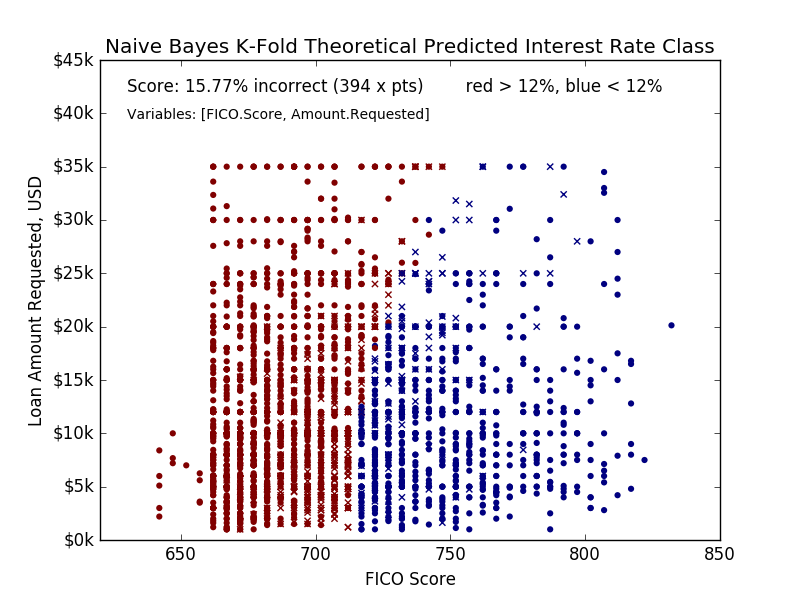
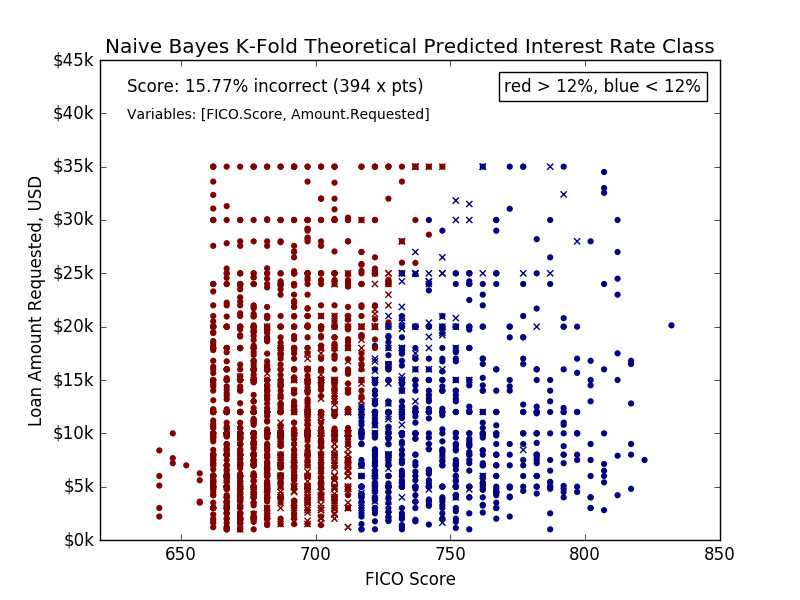
update naive_bayes kfold plots

Changed region(s): [[0.5938, 0.12, 0.9062, 0.18]]

diff --git a/naive_bayes_kfold.py b/naive_bayes_kfold.py
@@ -13,6 +13,7 @@ import os
 # to do:
 #    add k-fold cross-validation    (done)
 #    add automatic random combinations of variables to minimize incorrect number  (done)
+#    better random optimization is possible using marginal difference of adding variables?
 #    plot expected IR_TF from logistic regression function, compare w/ naive bayes
 
 # initialize data
@@ -39,6 +40,7 @@ slurp = list(set(loansData['Loan.Purpose']))
 def purpose_to_num(s):
     return slurp.index(s)
 
+# classify Interest Rate as boolean True/False (IR_TF) as low if < 12%, high if >= 12%
 loansData['Interest.Rate'] = loansData['Interest.Rate'].apply(lambda s: float(s.rstrip('%')))
 loansData['IR_TF'] = loansData['Interest.Rate'].apply(lambda x: 0 if x<12 else 1)
 loansData['Debt.To.Income.Ratio'] = loansData['Debt.To.Income.Ratio'].apply(lambda s: float(s.rstrip('%')))
@@ -88,10 +90,10 @@ def plot_predict(label, score, indep_variables, correct, incorrect):
     plt.xlabel('FICO Score')
     plt.ylabel('Loan Amount Requested, USD')
     plt.title('Naive Bayes K-Fold Predicted Interest Rate Class')
-    sc = 0.01 * float(int(10000 * float(score) / loans_target.shape[0]))
-    txt = 'Score: ' + str(sc) + '% incorrect (' + str(score) + ' x pts)'
-    txt += '        red > 12%, blue < 12%'
+    sc = 100 * float(score) / loans_target.shape[0]
+    txt = "Score: %.2f%% incorrect (%d x pts)" % (sc, score)
     plt.text(630, 42000, txt)
+    plt.text(770, 42000, 'red > 12%, blue < 12%', bbox=dict(edgecolor='black', fill=False))
     txt, pos = getVarStr(indep_variables)
     plt.text(630, 38000 + 1500*(2-pos), txt, fontsize=10)
     plt.savefig(plotdir+label+'_bayes_intrate_predict.png')
@@ -110,10 +112,10 @@ def plot_theo(label, score, indep_variables, correct, incorrect):
     plt.xlabel('FICO Score')
     plt.ylabel('Loan Amount Requested, USD')
     plt.title('Naive Bayes K-Fold Theoretical Predicted Interest Rate Class')
-    sc = 0.01 * float(int(10000 * float(score) / loans_target.shape[0]))
-    txt = 'Score: ' + str(sc) + '% incorrect (' + str(score) + ' x pts)'
-    txt += '        red > 12%, blue < 12%'
+    sc = 100 * float(score) / loans_target.shape[0]
+    txt = "Score: %.2f%% incorrect (%d x pts)" % (sc, score)
     plt.text(630, 42000, txt)
+    plt.text(770, 42000, 'red > 12%, blue < 12%', bbox=dict(edgecolor='black', fill=False))
     txt, pos = getVarStr(indep_variables)
     plt.text(630, 38000 + 1500*(2-pos), txt, fontsize=10)
     plt.savefig(plotdir+label+'_bayes_intrate_theo.png')
@@ -214,6 +216,6 @@ print "opt_list %s" % (opt_list)
 # plot final optimized list
 do_naive_bayes(opt_list, label='opt', predict_plot=True)
 
-print '\nplots created'
+print "\nConclusion: The optimum number of variables to model high vs. low interest rate\n  is five, as listed in opt_list.  Adding all eleven numeric variables or other \n  combinations decreases the prediction rate."
 
 
